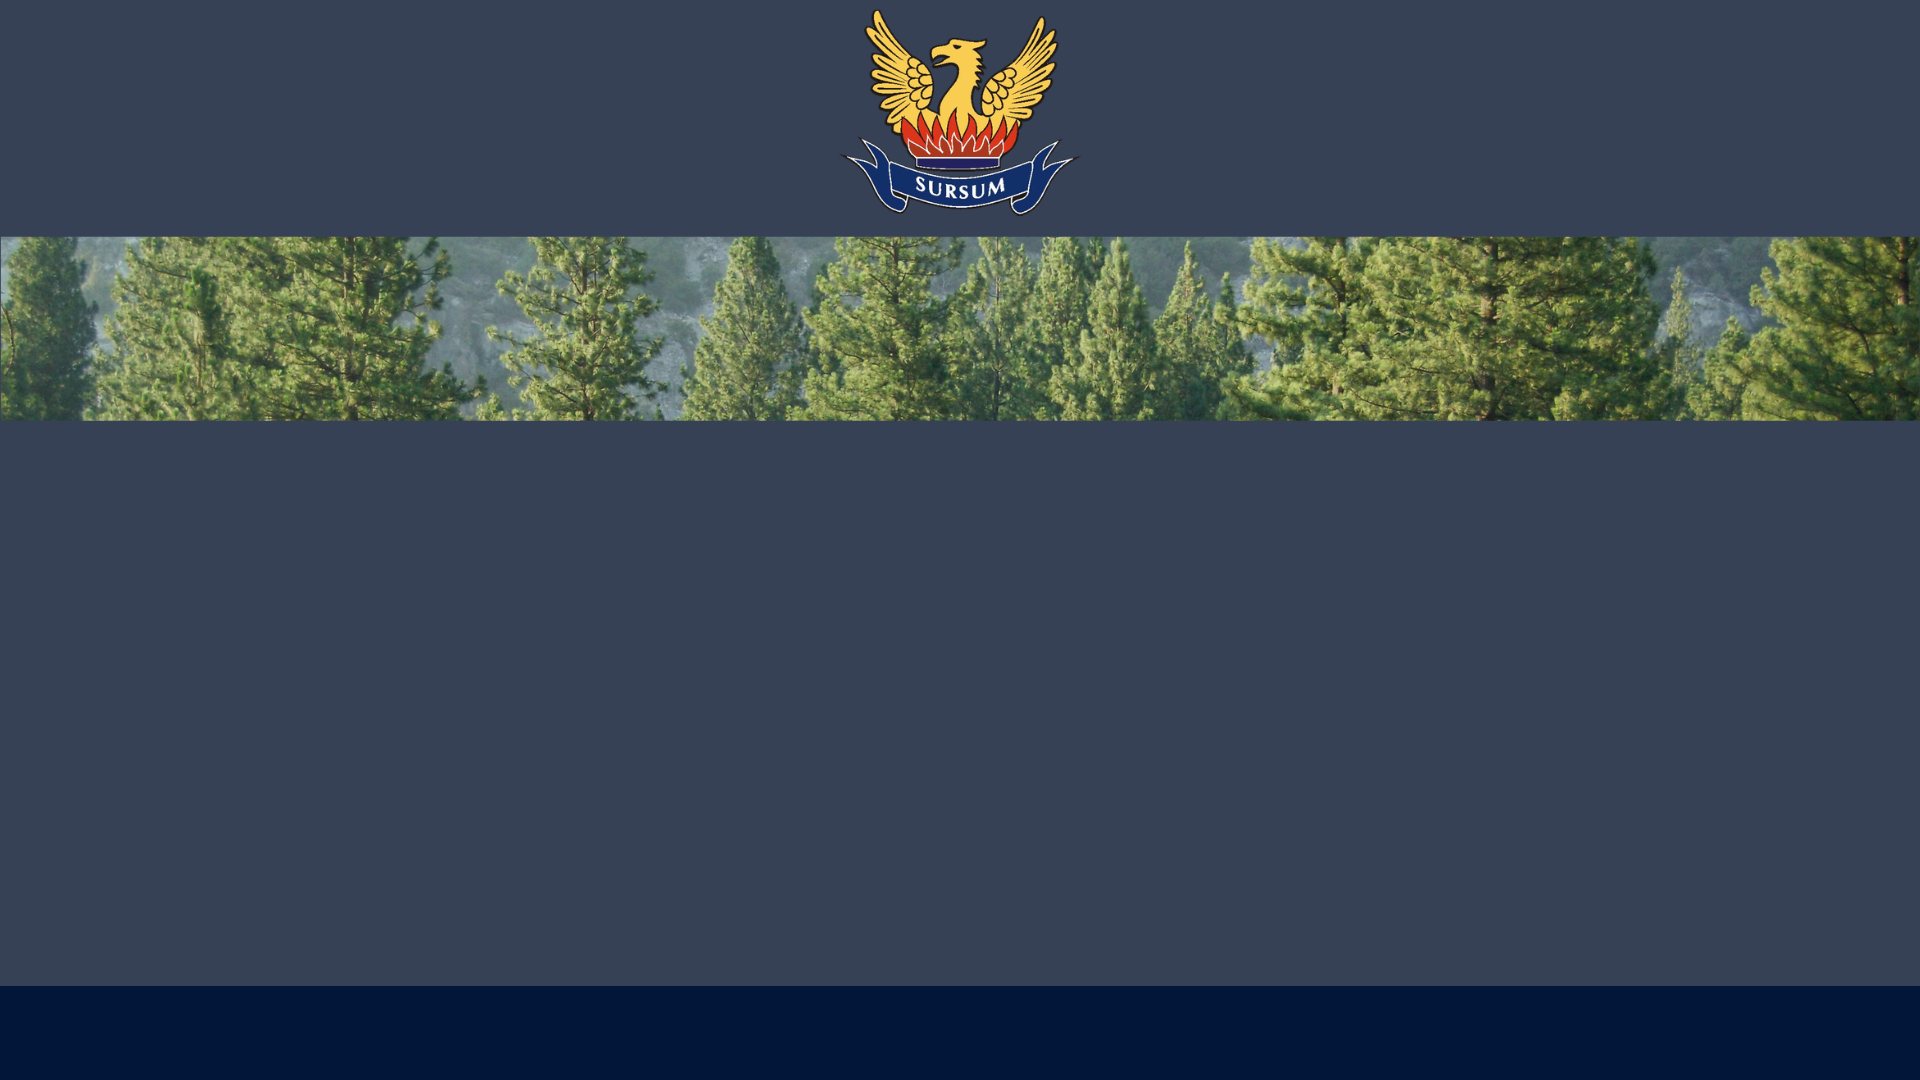
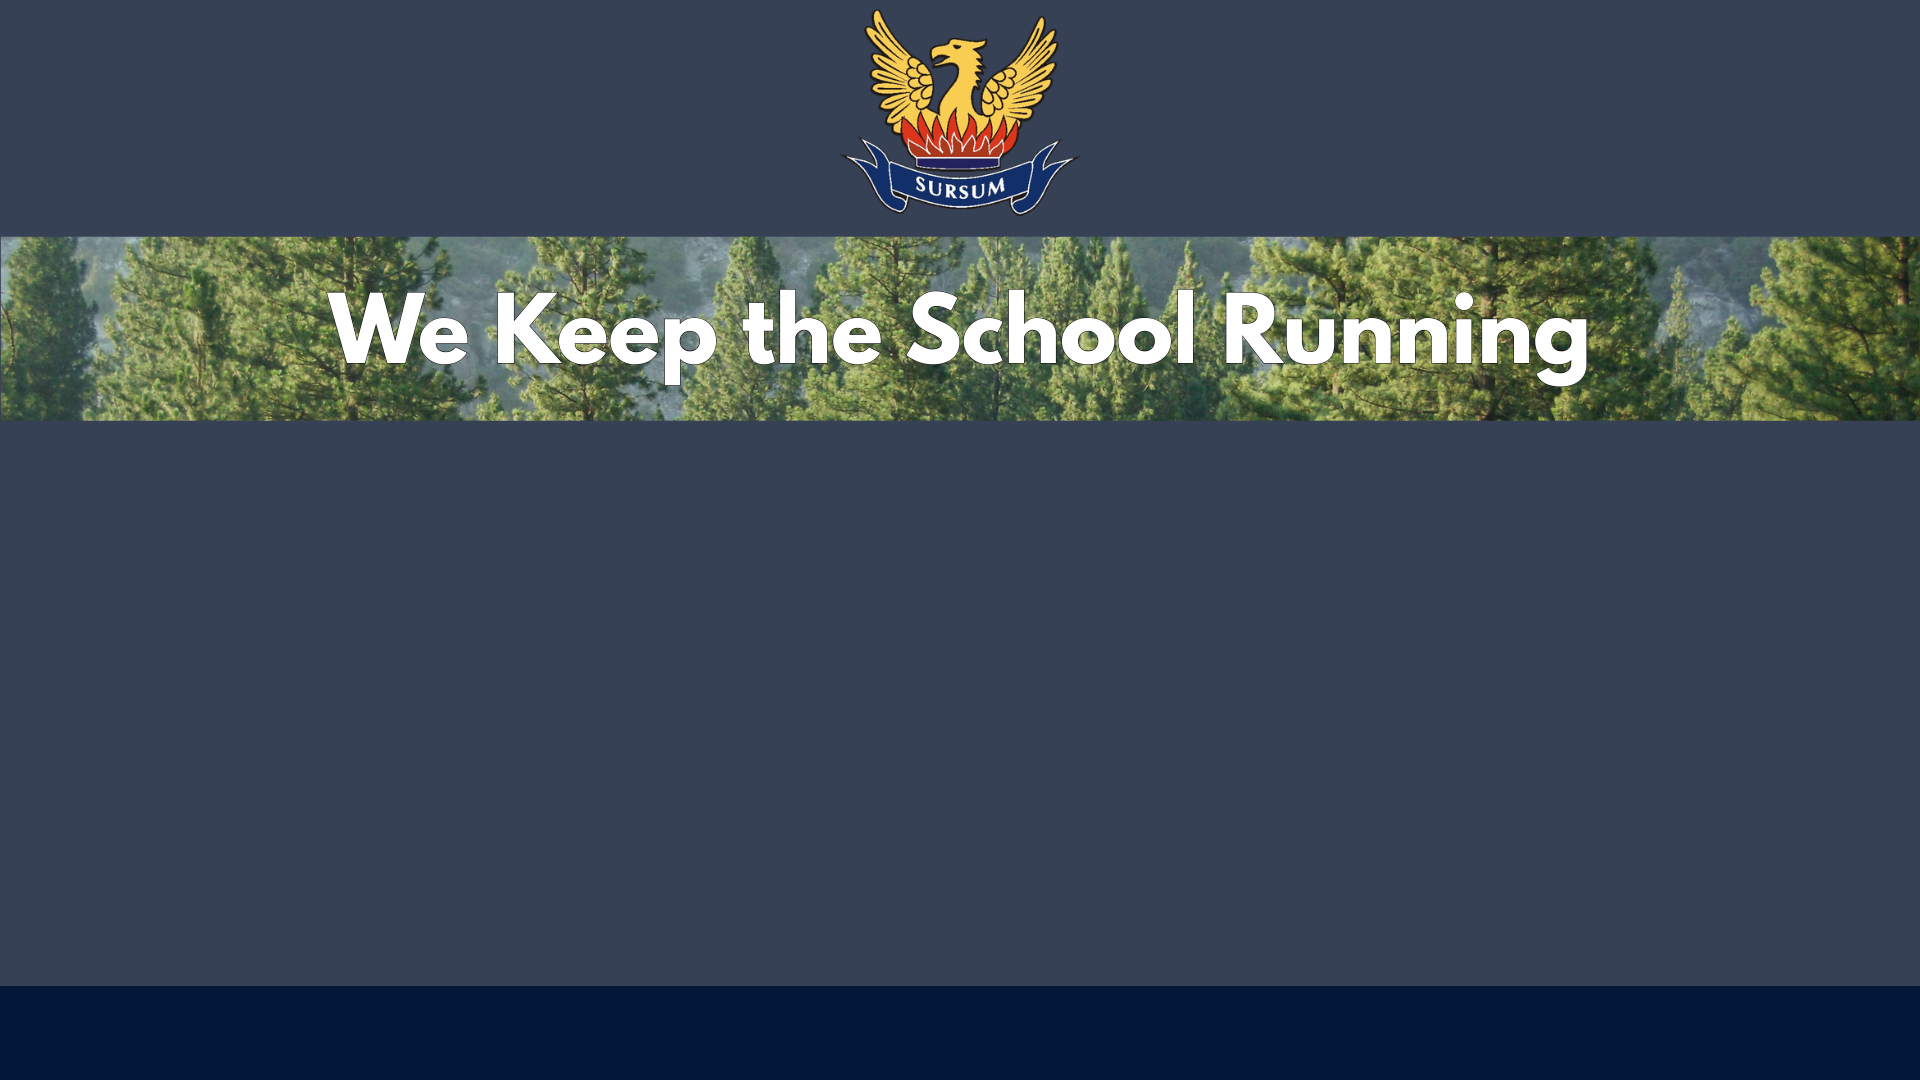
Replaced the bg image to have text Added a help button, but it does not display well and is the wrong size

Changed region(s): [[0.1562, 0.275, 0.8438, 0.3667]]

diff --git a/main.py b/main.py
@@ -37,6 +37,15 @@ class HomePage:
                                       activebackground=background_color, borderwidth = 0, cursor = "hand2")
         self.continue_button.place(relx=0.5, rely=0.8, anchor="center")
 
+        # setting a  image (using my canva design without any widgets)
+        self.question_image = Image.open("questionmark.png")  # using my canva design
+        self.question_image_tk = ImageTk.PhotoImage(self.question_image)
+
+        # The button which allows the user to continue from the homepage into the quiz
+        self.question_button = Button(self.pframe, command=self.nextpage, image=self.question_image_tk, background=background_color,
+                                      activebackground=background_color, borderwidth = 0, cursor = "hand2")
+        self.question_button.place(relx=0.55, rely=0.8, anchor="center")
+
         #creates label that has body text
         self.body_text = Label(self.pframe, font=("Inter", "30"),text="""Everyone at MRGS deserves running facilities, and you can help 
         us maintain this with only a little effort on your part. 
@@ -45,6 +54,9 @@ class HomePage:
         as possible.""", fg="#FFFFFF", bg=background_color)
         self.body_text.place(relx=0.5,rely=0.55,anchor="center")
 
+
+class choice:
+    pass
 
 root = Tk()  # create the main window
 root.title("MRGS TOILETS")  # set the title of the window
